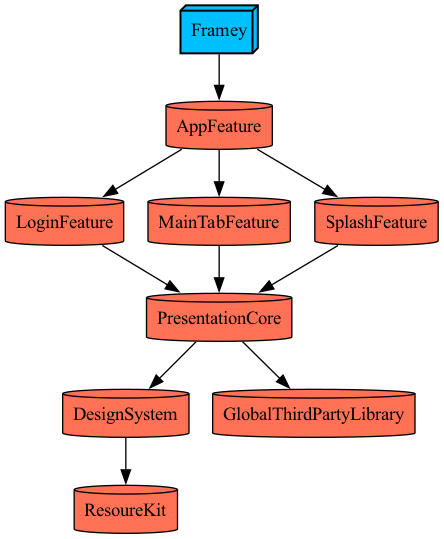
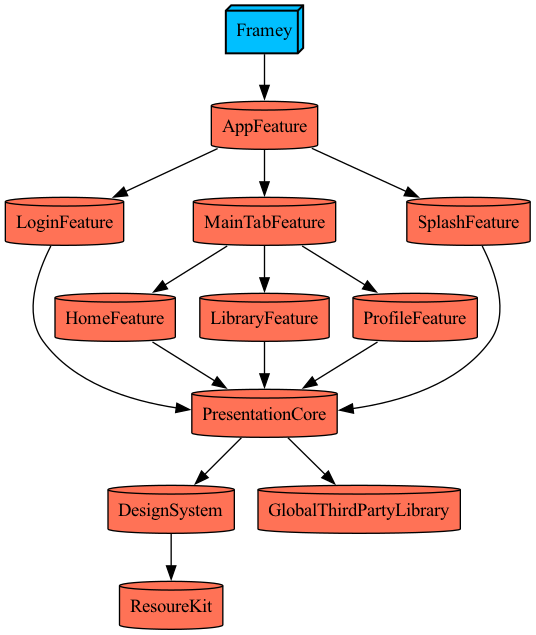
feat: MainTabs 모듈 추가 (Home, Library, Profile)

diff --git a/Packages/Presentation/Project.swift b/Packages/Presentation/Project.swift
@@ -20,7 +20,13 @@ let project = Project.make(
       ]
     ),
     .presentation(
-      name: "SplashFeature",
+      name: "HomeFeature",
+      dependencies: [
+        .target(name: "PresentationCore"),
+      ]
+    ),
+    .presentation(
+      name: "LibraryFeature",
       dependencies: [
         .target(name: "PresentationCore"),
       ]
@@ -33,6 +39,20 @@ let project = Project.make(
     ),
     .presentation(
       name: "MainTabFeature",
+      dependencies: [
+        .target(name: "HomeFeature"),
+        .target(name: "LibraryFeature"),
+        .target(name: "ProfileFeature"),
+      ]
+    ),
+    .presentation(
+      name: "ProfileFeature",
+      dependencies: [
+        .target(name: "PresentationCore"),
+      ]
+    ),
+    .presentation(
+      name: "SplashFeature",
       dependencies: [
         .target(name: "PresentationCore"),
       ]

diff --git a/Packages/Presentation/LibraryFeature/Sources/LibraryView.swift b/Packages/Presentation/LibraryFeature/Sources/LibraryView.swift
@@ -1,0 +1,30 @@
+import PresentationCore
+import SwiftUI
+
+@ViewAction(for: LibraryFeature.self)
+public struct LibraryView: View {
+  public let store: StoreOf<LibraryFeature>
+
+  public init(store: StoreOf<LibraryFeature>) {
+    self.store = store
+  }
+
+  public var body: some View {
+    VStack {
+      AppBar(
+        leading: {
+          AppBarBrandTitle(color: .primary500)
+            .padding(.leading, 20)
+        }
+      )
+
+      Text("Library")
+        .typography(.displaySB36)
+        .foregroundStyle(.framey(.gray900))
+
+      Spacer()
+    }
+    .frame(maxWidth: .infinity, maxHeight: .infinity)
+    .backgroundStyle(.framey(.white))
+  }
+}

diff --git a/Packages/Presentation/HomeFeature/Sources/HomeView.swift b/Packages/Presentation/HomeFeature/Sources/HomeView.swift
@@ -1,0 +1,30 @@
+import PresentationCore
+import SwiftUI
+
+@ViewAction(for: HomeFeature.self)
+public struct HomeView: View {
+  public let store: StoreOf<HomeFeature>
+
+  public init(store: StoreOf<HomeFeature>) {
+    self.store = store
+  }
+
+  public var body: some View {
+    VStack {
+      AppBar(
+        leading: {
+          AppBarBrandTitle(color: .white)
+            .padding(.leading, 20)
+        }
+      )
+
+      Text("Home")
+        .typography(.displaySB36)
+        .foregroundStyle(.framey(.primary100))
+
+
+      Spacer()
+    }
+    .frameyGradientBackground()
+  }
+}

diff --git a/Packages/Presentation/ProfileFeature/Sources/ProfileView.swift b/Packages/Presentation/ProfileFeature/Sources/ProfileView.swift
@@ -1,0 +1,21 @@
+import PresentationCore
+import SwiftUI
+
+@ViewAction(for: ProfileFeature.self)
+public struct ProfileView: View {
+  public let store: StoreOf<ProfileFeature>
+
+  public init(store: StoreOf<ProfileFeature>) {
+    self.store = store
+  }
+
+  public var body: some View {
+    VStack {
+      Text("Profile")
+        .typography(.displaySB36)
+        .foregroundStyle(.framey(.gray900))
+    }
+    .frame(maxWidth: .infinity, maxHeight: .infinity)
+    .backgroundStyle(.framey(.white))
+  }
+}

diff --git a/Packages/Presentation/LibraryFeature/Sources/LibraryFeature.swift b/Packages/Presentation/LibraryFeature/Sources/LibraryFeature.swift
@@ -1,0 +1,24 @@
+import PresentationCore
+
+@Reducer
+public struct LibraryFeature {
+  @ObservableState
+  public struct State: Equatable {
+    public init() {}
+  }
+
+  @CasePathable
+  public enum Action: ViewAction {
+    case view(View)
+
+    public enum View {}
+  }
+
+  public init() {}
+
+  public var body: some ReducerOf<Self> {
+    Reduce { state, action in
+      return .none
+    }
+  }
+}

diff --git a/Packages/Presentation/ProfileFeature/Sources/ProfileFeature.swift b/Packages/Presentation/ProfileFeature/Sources/ProfileFeature.swift
@@ -1,0 +1,24 @@
+import PresentationCore
+
+@Reducer
+public struct ProfileFeature {
+  @ObservableState
+  public struct State: Equatable {
+    public init() {}
+  }
+
+  @CasePathable
+  public enum Action: ViewAction {
+    case view(View)
+
+    public enum View {}
+  }
+
+  public init() {}
+
+  public var body: some ReducerOf<Self> {
+    Reduce { state, action in
+      return .none
+    }
+  }
+}

diff --git a/Packages/Presentation/HomeFeature/Sources/HomeFeature.swift b/Packages/Presentation/HomeFeature/Sources/HomeFeature.swift
@@ -1,0 +1,24 @@
+import PresentationCore
+
+@Reducer
+public struct HomeFeature {
+  @ObservableState
+  public struct State: Equatable {
+    public init() {}
+  }
+
+  @CasePathable
+  public enum Action: ViewAction {
+    case view(View)
+
+    public enum View {}
+  }
+
+  public init() {}
+
+  public var body: some ReducerOf<Self> {
+    Reduce { state, action in
+      return .none
+    }
+  }
+}
